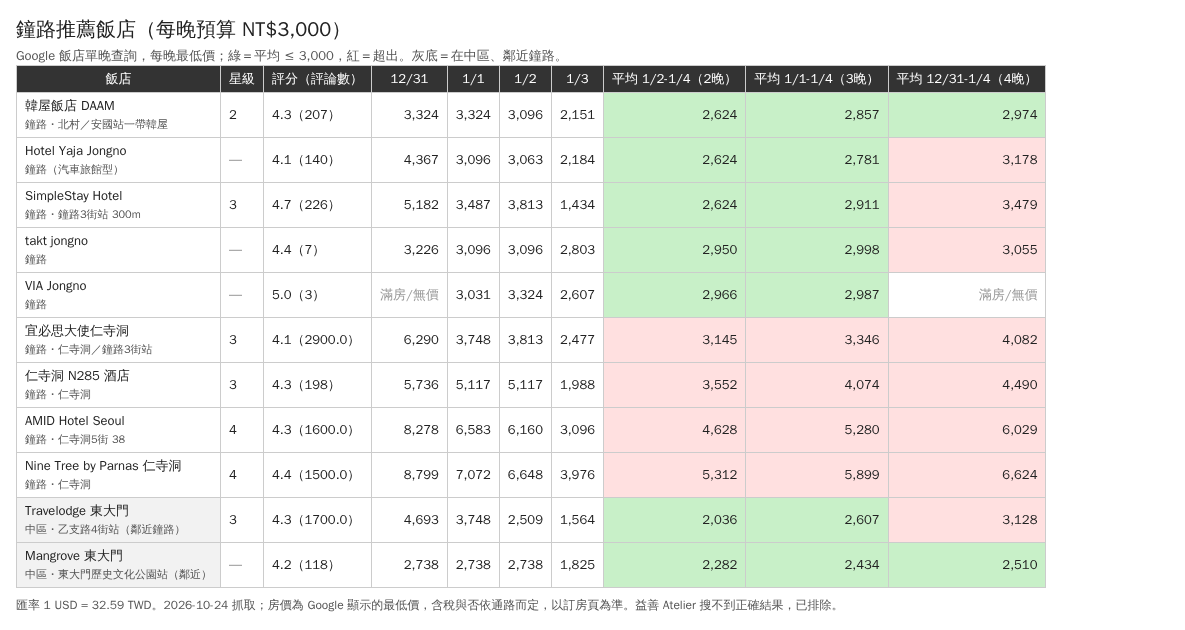
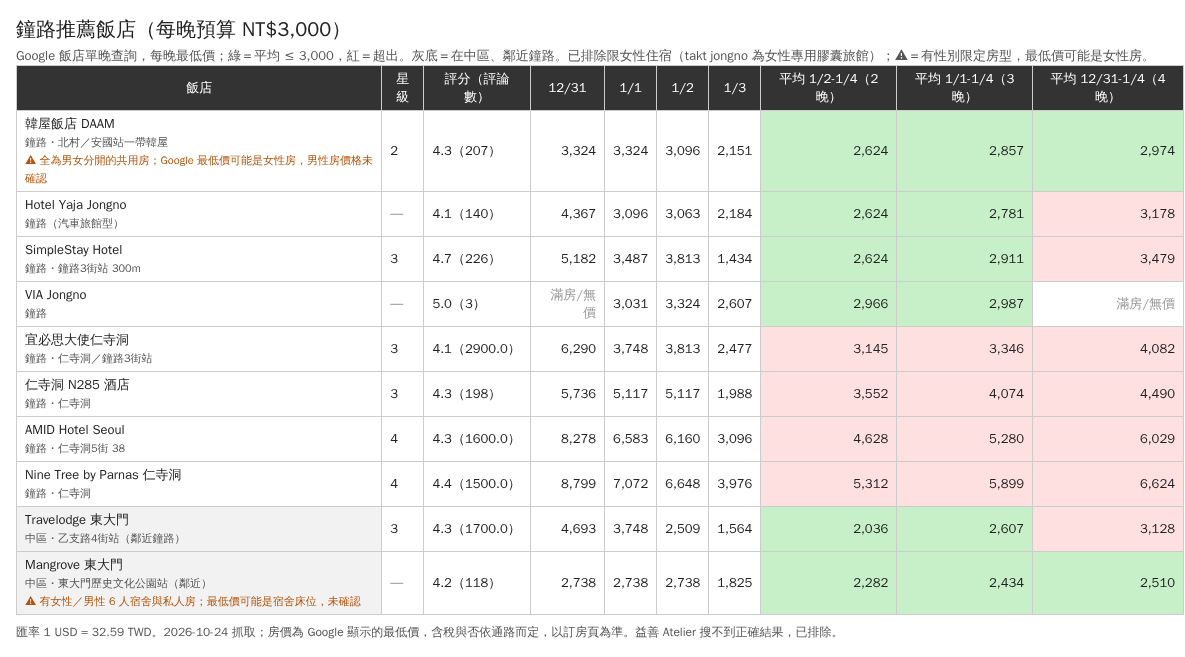
Exclude female-only lodging from Jongno recommendations; flag gendered room types
Claude-Session: https://claude.ai/code/session_01LvCtu8DvWSpXN715DhdqY9

diff --git a/hotel-search/jongno_hotels.html b/hotel-search/jongno_hotels.html
@@ -3,7 +3,7 @@ body{font-family:'WenQuanYi Zen Hei',sans-serif;margin:16px;background:#fff;colo
 h1{font-size:20px;margin:0 0 4px} .sub,.s{color:#555} .s{font-size:11px}
 table{border-collapse:collapse} th,td{border:1px solid #ccc;padding:4px 8px} th{background:#333;color:#fff;font-weight:normal}
 .num{text-align:right} .ok{background:#c8f0c8;font-weight:bold} .over{background:#ffe0e0} .na{color:#999} tr.near td:first-child{background:#f2f2f2}
-.foot{color:#555;font-size:12px;margin-top:8px;line-height:1.5;max-width:1100px}</style></head><body>
-<h1>鐘路推薦飯店（每晚預算 NT$3,000）</h1><div class='sub'>Google 飯店單晚查詢，每晚最低價；綠＝平均 ≤ 3,000，紅＝超出。灰底＝在中區、鄰近鐘路。</div>
-<table><tr><th>飯店</th><th>星級</th><th>評分（評論數）</th><th>12/31</th><th>1/1</th><th>1/2</th><th>1/3</th><th>平均 1/2-1/4（2晚）</th><th>平均 1/1-1/4（3晚）</th><th>平均 12/31-1/4（4晚）</th></tr><tr class=''><td><b>韓屋飯店 DAAM</b><br><span class='s'>鐘路・北村／安國站一帶韓屋</span></td><td>2</td><td>4.3（207）</td><td class='num'>3,324</td><td class='num'>3,324</td><td class='num'>3,096</td><td class='num'>2,151</td><td class='num ok'>2,624</td><td class='num ok'>2,857</td><td class='num ok'>2,974</td></tr><tr class=''><td><b>Hotel Yaja Jongno</b><br><span class='s'>鐘路（汽車旅館型）</span></td><td>—</td><td>4.1（140）</td><td class='num'>4,367</td><td class='num'>3,096</td><td class='num'>3,063</td><td class='num'>2,184</td><td class='num ok'>2,624</td><td class='num ok'>2,781</td><td class='num over'>3,178</td></tr><tr class=''><td><b>SimpleStay Hotel</b><br><span class='s'>鐘路・鐘路3街站 300m</span></td><td>3</td><td>4.7（226）</td><td class='num'>5,182</td><td class='num'>3,487</td><td class='num'>3,813</td><td class='num'>1,434</td><td class='num ok'>2,624</td><td class='num ok'>2,911</td><td class='num over'>3,479</td></tr><tr class=''><td><b>takt jongno</b><br><span class='s'>鐘路</span></td><td>—</td><td>4.4（7）</td><td class='num'>3,226</td><td class='num'>3,096</td><td class='num'>3,096</td><td class='num'>2,803</td><td class='num ok'>2,950</td><td class='num ok'>2,998</td><td class='num over'>3,055</td></tr><tr class=''><td><b>VIA Jongno</b><br><span class='s'>鐘路</span></td><td>—</td><td>5.0（3）</td><td class='num na'>滿房/無價</td><td class='num'>3,031</td><td class='num'>3,324</td><td class='num'>2,607</td><td class='num ok'>2,966</td><td class='num ok'>2,987</td><td class='num na'>滿房/無價</td></tr><tr class=''><td><b>宜必思大使仁寺洞</b><br><span class='s'>鐘路・仁寺洞／鐘路3街站</span></td><td>3</td><td>4.1（2900.0）</td><td class='num'>6,290</td><td class='num'>3,748</td><td class='num'>3,813</td><td class='num'>2,477</td><td class='num over'>3,145</td><td class='num over'>3,346</td><td class='num over'>4,082</td></tr><tr class=''><td><b>仁寺洞 N285 酒店</b><br><span class='s'>鐘路・仁寺洞</span></td><td>3</td><td>4.3（198）</td><td class='num'>5,736</td><td class='num'>5,117</td><td class='num'>5,117</td><td class='num'>1,988</td><td class='num over'>3,552</td><td class='num over'>4,074</td><td class='num over'>4,490</td></tr><tr class=''><td><b>AMID Hotel Seoul</b><br><span class='s'>鐘路・仁寺洞5街 38</span></td><td>4</td><td>4.3（1600.0）</td><td class='num'>8,278</td><td class='num'>6,583</td><td class='num'>6,160</td><td class='num'>3,096</td><td class='num over'>4,628</td><td class='num over'>5,280</td><td class='num over'>6,029</td></tr><tr class=''><td><b>Nine Tree by Parnas 仁寺洞</b><br><span class='s'>鐘路・仁寺洞</span></td><td>4</td><td>4.4（1500.0）</td><td class='num'>8,799</td><td class='num'>7,072</td><td class='num'>6,648</td><td class='num'>3,976</td><td class='num over'>5,312</td><td class='num over'>5,899</td><td class='num over'>6,624</td></tr><tr class='near'><td><b>Travelodge 東大門</b><br><span class='s'>中區・乙支路4街站（鄰近鐘路）</span></td><td>3</td><td>4.3（1700.0）</td><td class='num'>4,693</td><td class='num'>3,748</td><td class='num'>2,509</td><td class='num'>1,564</td><td class='num ok'>2,036</td><td class='num ok'>2,607</td><td class='num over'>3,128</td></tr><tr class='near'><td><b>Mangrove 東大門</b><br><span class='s'>中區・東大門歷史文化公園站（鄰近）</span></td><td>—</td><td>4.2（118）</td><td class='num'>2,738</td><td class='num'>2,738</td><td class='num'>2,738</td><td class='num'>1,825</td><td class='num ok'>2,282</td><td class='num ok'>2,434</td><td class='num ok'>2,510</td></tr></table>
+.warn{color:#b45309} .foot{color:#555;font-size:12px;margin-top:8px;line-height:1.5;max-width:1100px}</style></head><body>
+<h1>鐘路推薦飯店（每晚預算 NT$3,000）</h1><div class='sub'>Google 飯店單晚查詢，每晚最低價；綠＝平均 ≤ 3,000，紅＝超出。灰底＝在中區、鄰近鐘路。已排除限女性住宿（takt jongno 為女性專用膠囊旅館）；⚠＝有性別限定房型，最低價可能是女性房。</div>
+<table><tr><th>飯店</th><th>星級</th><th>評分（評論數）</th><th>12/31</th><th>1/1</th><th>1/2</th><th>1/3</th><th>平均 1/2-1/4（2晚）</th><th>平均 1/1-1/4（3晚）</th><th>平均 12/31-1/4（4晚）</th></tr><tr class=''><td><b>韓屋飯店 DAAM</b><br><span class='s'>鐘路・北村／安國站一帶韓屋<br><span class='warn'>⚠ 全為男女分開的共用房；Google 最低價可能是女性房，男性房價格未確認</span></span></td><td>2</td><td>4.3（207）</td><td class='num'>3,324</td><td class='num'>3,324</td><td class='num'>3,096</td><td class='num'>2,151</td><td class='num ok'>2,624</td><td class='num ok'>2,857</td><td class='num ok'>2,974</td></tr><tr class=''><td><b>Hotel Yaja Jongno</b><br><span class='s'>鐘路（汽車旅館型）</span></td><td>—</td><td>4.1（140）</td><td class='num'>4,367</td><td class='num'>3,096</td><td class='num'>3,063</td><td class='num'>2,184</td><td class='num ok'>2,624</td><td class='num ok'>2,781</td><td class='num over'>3,178</td></tr><tr class=''><td><b>SimpleStay Hotel</b><br><span class='s'>鐘路・鐘路3街站 300m</span></td><td>3</td><td>4.7（226）</td><td class='num'>5,182</td><td class='num'>3,487</td><td class='num'>3,813</td><td class='num'>1,434</td><td class='num ok'>2,624</td><td class='num ok'>2,911</td><td class='num over'>3,479</td></tr><tr class=''><td><b>VIA Jongno</b><br><span class='s'>鐘路</span></td><td>—</td><td>5.0（3）</td><td class='num na'>滿房/無價</td><td class='num'>3,031</td><td class='num'>3,324</td><td class='num'>2,607</td><td class='num ok'>2,966</td><td class='num ok'>2,987</td><td class='num na'>滿房/無價</td></tr><tr class=''><td><b>宜必思大使仁寺洞</b><br><span class='s'>鐘路・仁寺洞／鐘路3街站</span></td><td>3</td><td>4.1（2900.0）</td><td class='num'>6,290</td><td class='num'>3,748</td><td class='num'>3,813</td><td class='num'>2,477</td><td class='num over'>3,145</td><td class='num over'>3,346</td><td class='num over'>4,082</td></tr><tr class=''><td><b>仁寺洞 N285 酒店</b><br><span class='s'>鐘路・仁寺洞</span></td><td>3</td><td>4.3（198）</td><td class='num'>5,736</td><td class='num'>5,117</td><td class='num'>5,117</td><td class='num'>1,988</td><td class='num over'>3,552</td><td class='num over'>4,074</td><td class='num over'>4,490</td></tr><tr class=''><td><b>AMID Hotel Seoul</b><br><span class='s'>鐘路・仁寺洞5街 38</span></td><td>4</td><td>4.3（1600.0）</td><td class='num'>8,278</td><td class='num'>6,583</td><td class='num'>6,160</td><td class='num'>3,096</td><td class='num over'>4,628</td><td class='num over'>5,280</td><td class='num over'>6,029</td></tr><tr class=''><td><b>Nine Tree by Parnas 仁寺洞</b><br><span class='s'>鐘路・仁寺洞</span></td><td>4</td><td>4.4（1500.0）</td><td class='num'>8,799</td><td class='num'>7,072</td><td class='num'>6,648</td><td class='num'>3,976</td><td class='num over'>5,312</td><td class='num over'>5,899</td><td class='num over'>6,624</td></tr><tr class='near'><td><b>Travelodge 東大門</b><br><span class='s'>中區・乙支路4街站（鄰近鐘路）</span></td><td>3</td><td>4.3（1700.0）</td><td class='num'>4,693</td><td class='num'>3,748</td><td class='num'>2,509</td><td class='num'>1,564</td><td class='num ok'>2,036</td><td class='num ok'>2,607</td><td class='num over'>3,128</td></tr><tr class='near'><td><b>Mangrove 東大門</b><br><span class='s'>中區・東大門歷史文化公園站（鄰近）<br><span class='warn'>⚠ 有女性／男性 6 人宿舍與私人房；最低價可能是宿舍床位，未確認</span></span></td><td>—</td><td>4.2（118）</td><td class='num'>2,738</td><td class='num'>2,738</td><td class='num'>2,738</td><td class='num'>1,825</td><td class='num ok'>2,282</td><td class='num ok'>2,434</td><td class='num ok'>2,510</td></tr></table>
 <div class='foot'>匯率 1 USD = 32.59 TWD。2026-10-24 抓取；房價為 Google 顯示的最低價，含稅與否依通路而定，以訂房頁為準。益善 Atelier 搜不到正確結果，已排除。</div></body></html>

diff --git a/hotel-search/jongno.py b/hotel-search/jongno.py
@@ -26,6 +26,12 @@ ALIAS = {'ibis Ambassador Seoul Insadong': '宜必思', 'Insadong N285 Hotel': '
 def matches(q, name):
     if q in ALIAS: return ALIAS[q].lower() in name.lower()
     return all(w.lower() in name.lower() for w in q.split() if len(w) > 3 and w != 'Seoul')
+# 性別限定房型（訂房網站房型資料，2026-10-24 查）
+FEMALE_ONLY = {'takt jongno'}  # 全館女性專用膠囊旅館 → 排除
+GENDER_NOTE = {
+    'Hanok Hotel DAAM': '全為男女分開的共用房；Google 最低價可能是女性房，男性房價格未確認',
+    'Mangrove Dongdaemun': '有女性／男性 6 人宿舍與私人房；最低價可能是宿舍床位，未確認',
+}
 PRICE = re.compile(r'^(US\$|NT\$|\$)([\d,]+)$')
 
 def first_card(path):
@@ -89,6 +95,7 @@ def render():
     with contextlib.redirect_stdout(io.StringIO()): pass
     rows = []
     for q, (disp, loc, inj) in HOTELS.items():
+        if q in FEMALE_ONLY: continue
         prices, card = {}, None
         for n in NIGHTS:
             f = os.path.join(HERE, 'raw_jongno', f"{q.replace(' ', '_')}-{n}.txt")
@@ -98,7 +105,7 @@ def render():
                 prices[n] = c['price']; card = card or c
         if not card: continue
         avgs = [round(sum(prices[n] for n in ns) / len(ns)) if all(prices.get(n) for n in ns) else None for _, ns in STAYS]
-        rows.append((disp, loc, inj, card, prices, avgs))
+        rows.append((disp, loc + ('' if q not in GENDER_NOTE else f"<br><span class='warn'>⚠ {GENDER_NOTE[q]}</span>"), inj, card, prices, avgs))
     rows.sort(key=lambda r: (not r[2], r[5][0] or 99999))
     def td(v, budget=False):
         if v is None: return "<td class='num na'>滿房/無價</td>"
@@ -112,8 +119,8 @@ body{{font-family:'WenQuanYi Zen Hei',sans-serif;margin:16px;background:#fff;col
 h1{{font-size:20px;margin:0 0 4px}} .sub,.s{{color:#555}} .s{{font-size:11px}}
 table{{border-collapse:collapse}} th,td{{border:1px solid #ccc;padding:4px 8px}} th{{background:#333;color:#fff;font-weight:normal}}
 .num{{text-align:right}} .ok{{background:#c8f0c8;font-weight:bold}} .over{{background:#ffe0e0}} .na{{color:#999}} tr.near td:first-child{{background:#f2f2f2}}
-.foot{{color:#555;font-size:12px;margin-top:8px;line-height:1.5;max-width:1100px}}</style></head><body>
-<h1>鐘路推薦飯店（每晚預算 NT${BUDGET:,}）</h1><div class='sub'>Google 飯店單晚查詢，每晚最低價；綠＝平均 ≤ {BUDGET:,}，紅＝超出。灰底＝在中區、鄰近鐘路。</div>
+.warn{{color:#b45309}} .foot{{color:#555;font-size:12px;margin-top:8px;line-height:1.5;max-width:1100px}}</style></head><body>
+<h1>鐘路推薦飯店（每晚預算 NT${BUDGET:,}）</h1><div class='sub'>Google 飯店單晚查詢，每晚最低價；綠＝平均 ≤ {BUDGET:,}，紅＝超出。灰底＝在中區、鄰近鐘路。已排除限女性住宿（takt jongno 為女性專用膠囊旅館）；⚠＝有性別限定房型，最低價可能是女性房。</div>
 <table><tr><th>飯店</th><th>星級</th><th>評分（評論數）</th>{''.join(f'<th>{nl(n)}</th>' for n in NIGHTS)}{''.join(f'<th>平均 {s}</th>' for s, _ in STAYS)}</tr>{trs}</table>
 <div class='foot'>匯率 1 USD = {TWD_PER_USD} TWD。2026-10-24 抓取；房價為 Google 顯示的最低價，含稅與否依通路而定，以訂房頁為準。益善 Atelier 搜不到正確結果，已排除。</div></body></html>"""
     open(os.path.join(HERE, 'jongno_hotels.html'), 'w').write(html)
